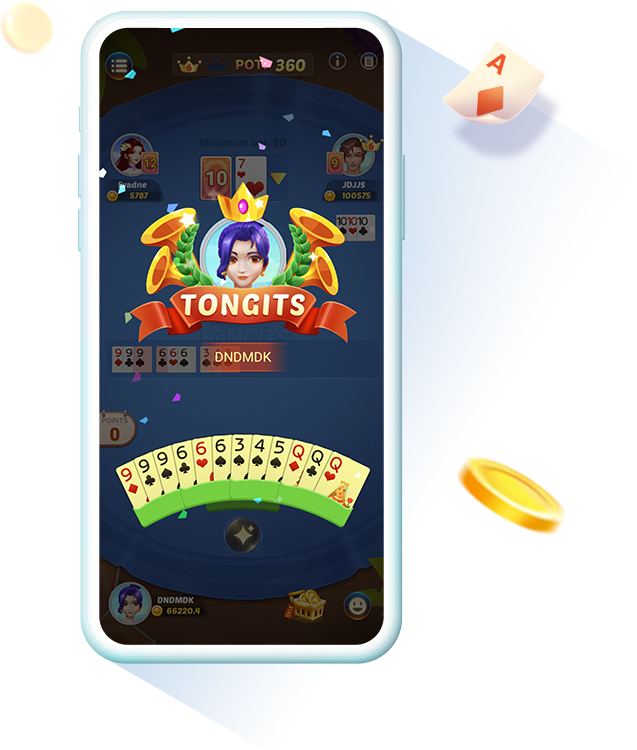
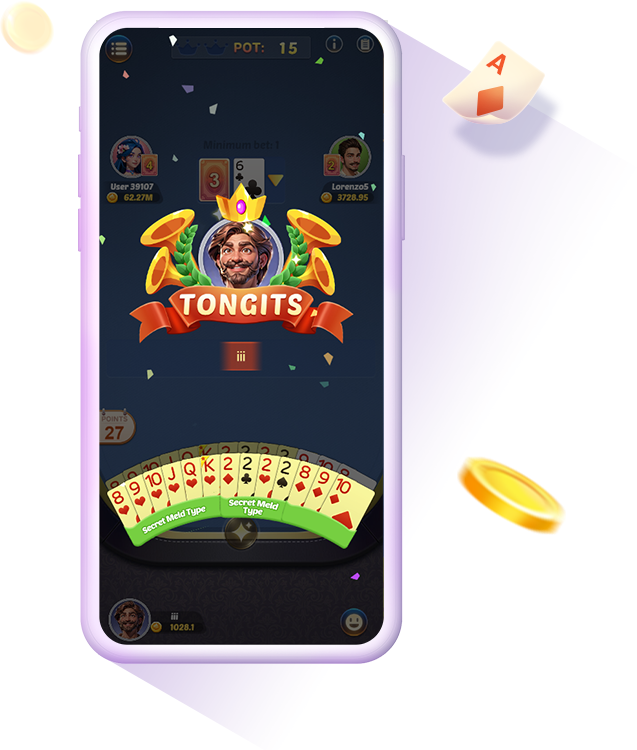
refactor: 更换图片资源，整理静态文件

Changed region(s): [[0.1193, 0.0, 0.6562, 0.8893], [0.4474, 0.1533, 0.4772, 0.184], [0.3281, 0.1227, 0.3579, 0.1533]]

diff --git a/index.html b/index.html
@@ -23,7 +23,7 @@
             <div id="box-header" style="width: 100%; height: 120px; background-color: rgba(255, 255, 255, 0.1)">
                 <div class="header">
                     <div class="h-left">
-                        <img src="./assets/imgs/android_huanpi/ic.png" style="margin-right: 10px" alt="" />
+                        <img src="./assets/imgs/android_huanpi/icon.png" style="margin-right: 10px" alt="" />
                         <span>Have fun with your friends!</span>
                     </div>
                     <div id="menu-bar" class="h-right">
@@ -492,7 +492,7 @@
                     homeTab1.classList.add('li-bottom-border');
                     homeTab2.classList.remove('li-bottom-border');
                     app.style.backgroundImage = 'url("./assets/imgs/android_huanpi/background.png")';
-                    document.body.style.backgroundColor = '#b2fff5';
+                    document.body.style.backgroundColor = '#f88bf7';
                     if (isPhone) {
                         judgeIfOpenMenu();
                     }

diff --git a/assets/css/index.css b/assets/css/index.css
@@ -1,6 +1,6 @@
 body {
     margin: 0;
-    background: #b2fff5;
+    background: #f88bf7;
 }
 #app {
     min-height: 880px;
